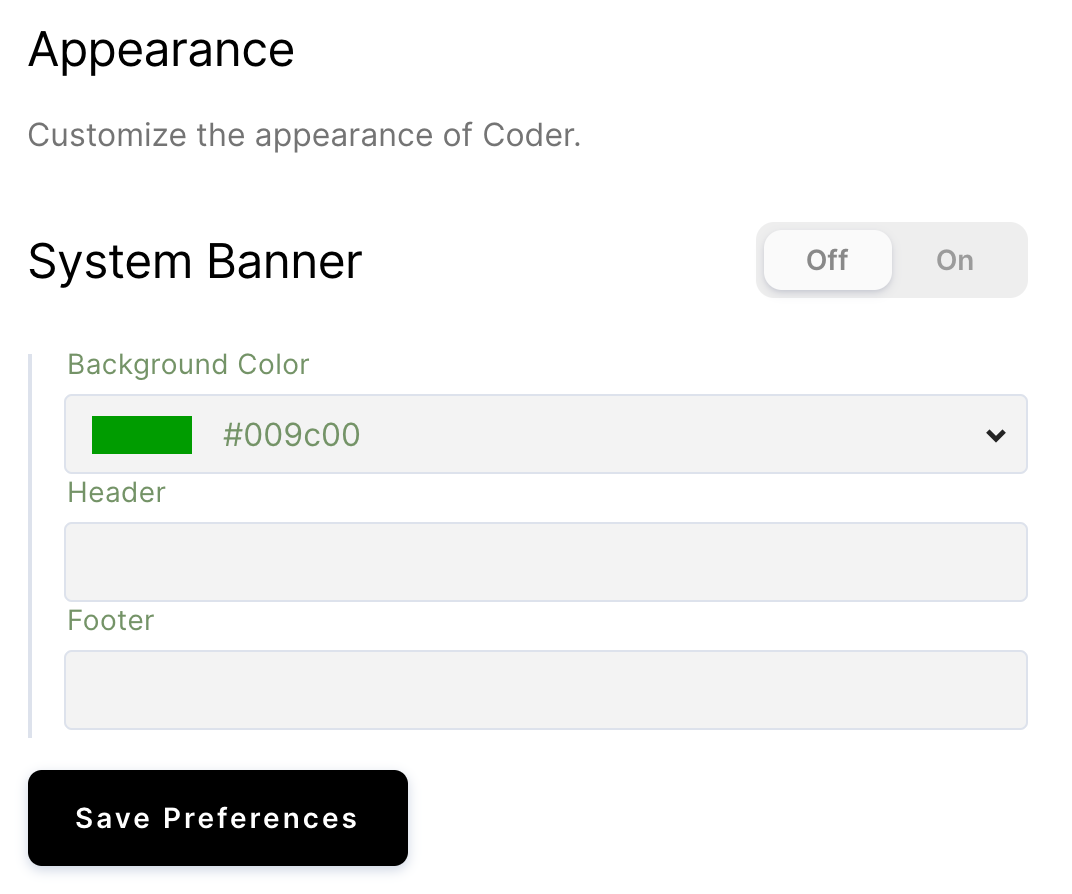
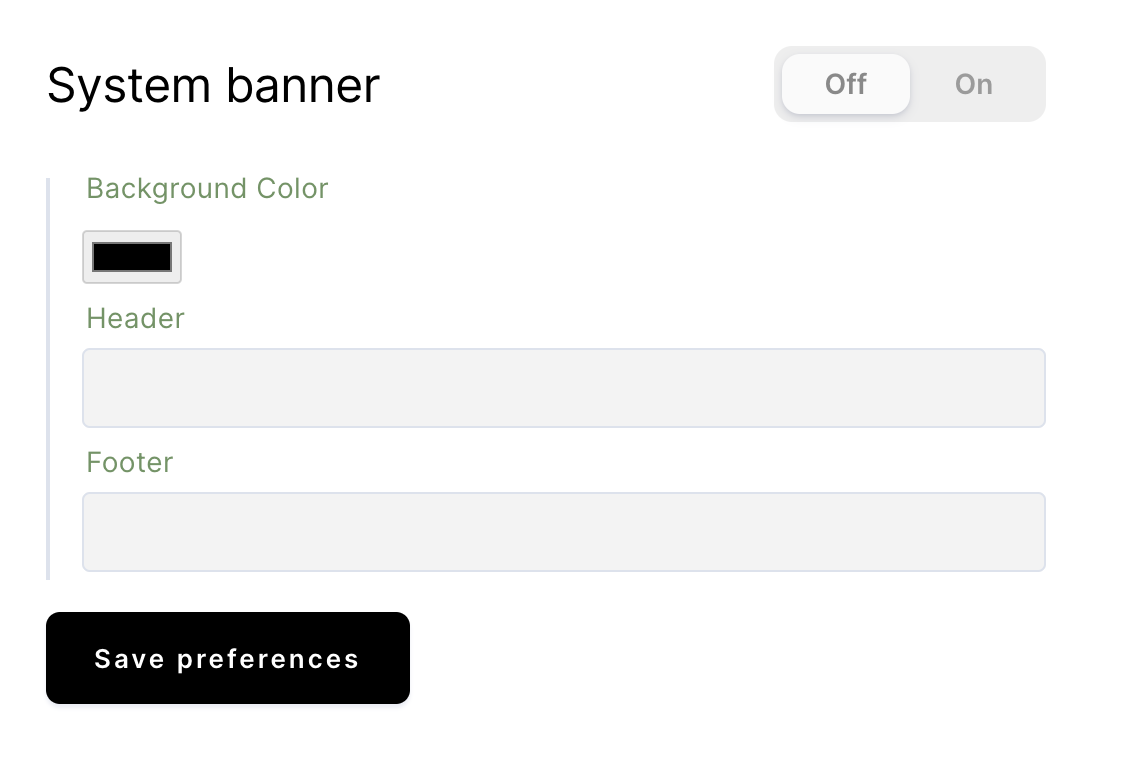
update appearance screenshots

diff --git a/changelog/1.24.0.md b/changelog/1.24.0.md
@@ -21,7 +21,8 @@ There are no breaking changes in 1.24.0.
 - web: added ability to upload avatars for workspace providers.
 - web: updated the in-product changelog to display information for multiple
   versions of Coder.
-- web: added ability to choose the background color for all in-product banners.
+- web: added ability to set the background color for all in-product banners with
+  a color picker.
 
 ### Bug fixes 🐛
 

diff --git a/admin/appearance.md b/admin/appearance.md
@@ -33,7 +33,7 @@ message).
 1. Set the **Message**.
 1. Click **Save Preferences**.
 
-![Service banner](../assets/service-banners.png)
+![Service banner](../assets/admin/service-banners.png)
 
 ## Terms of service
 
